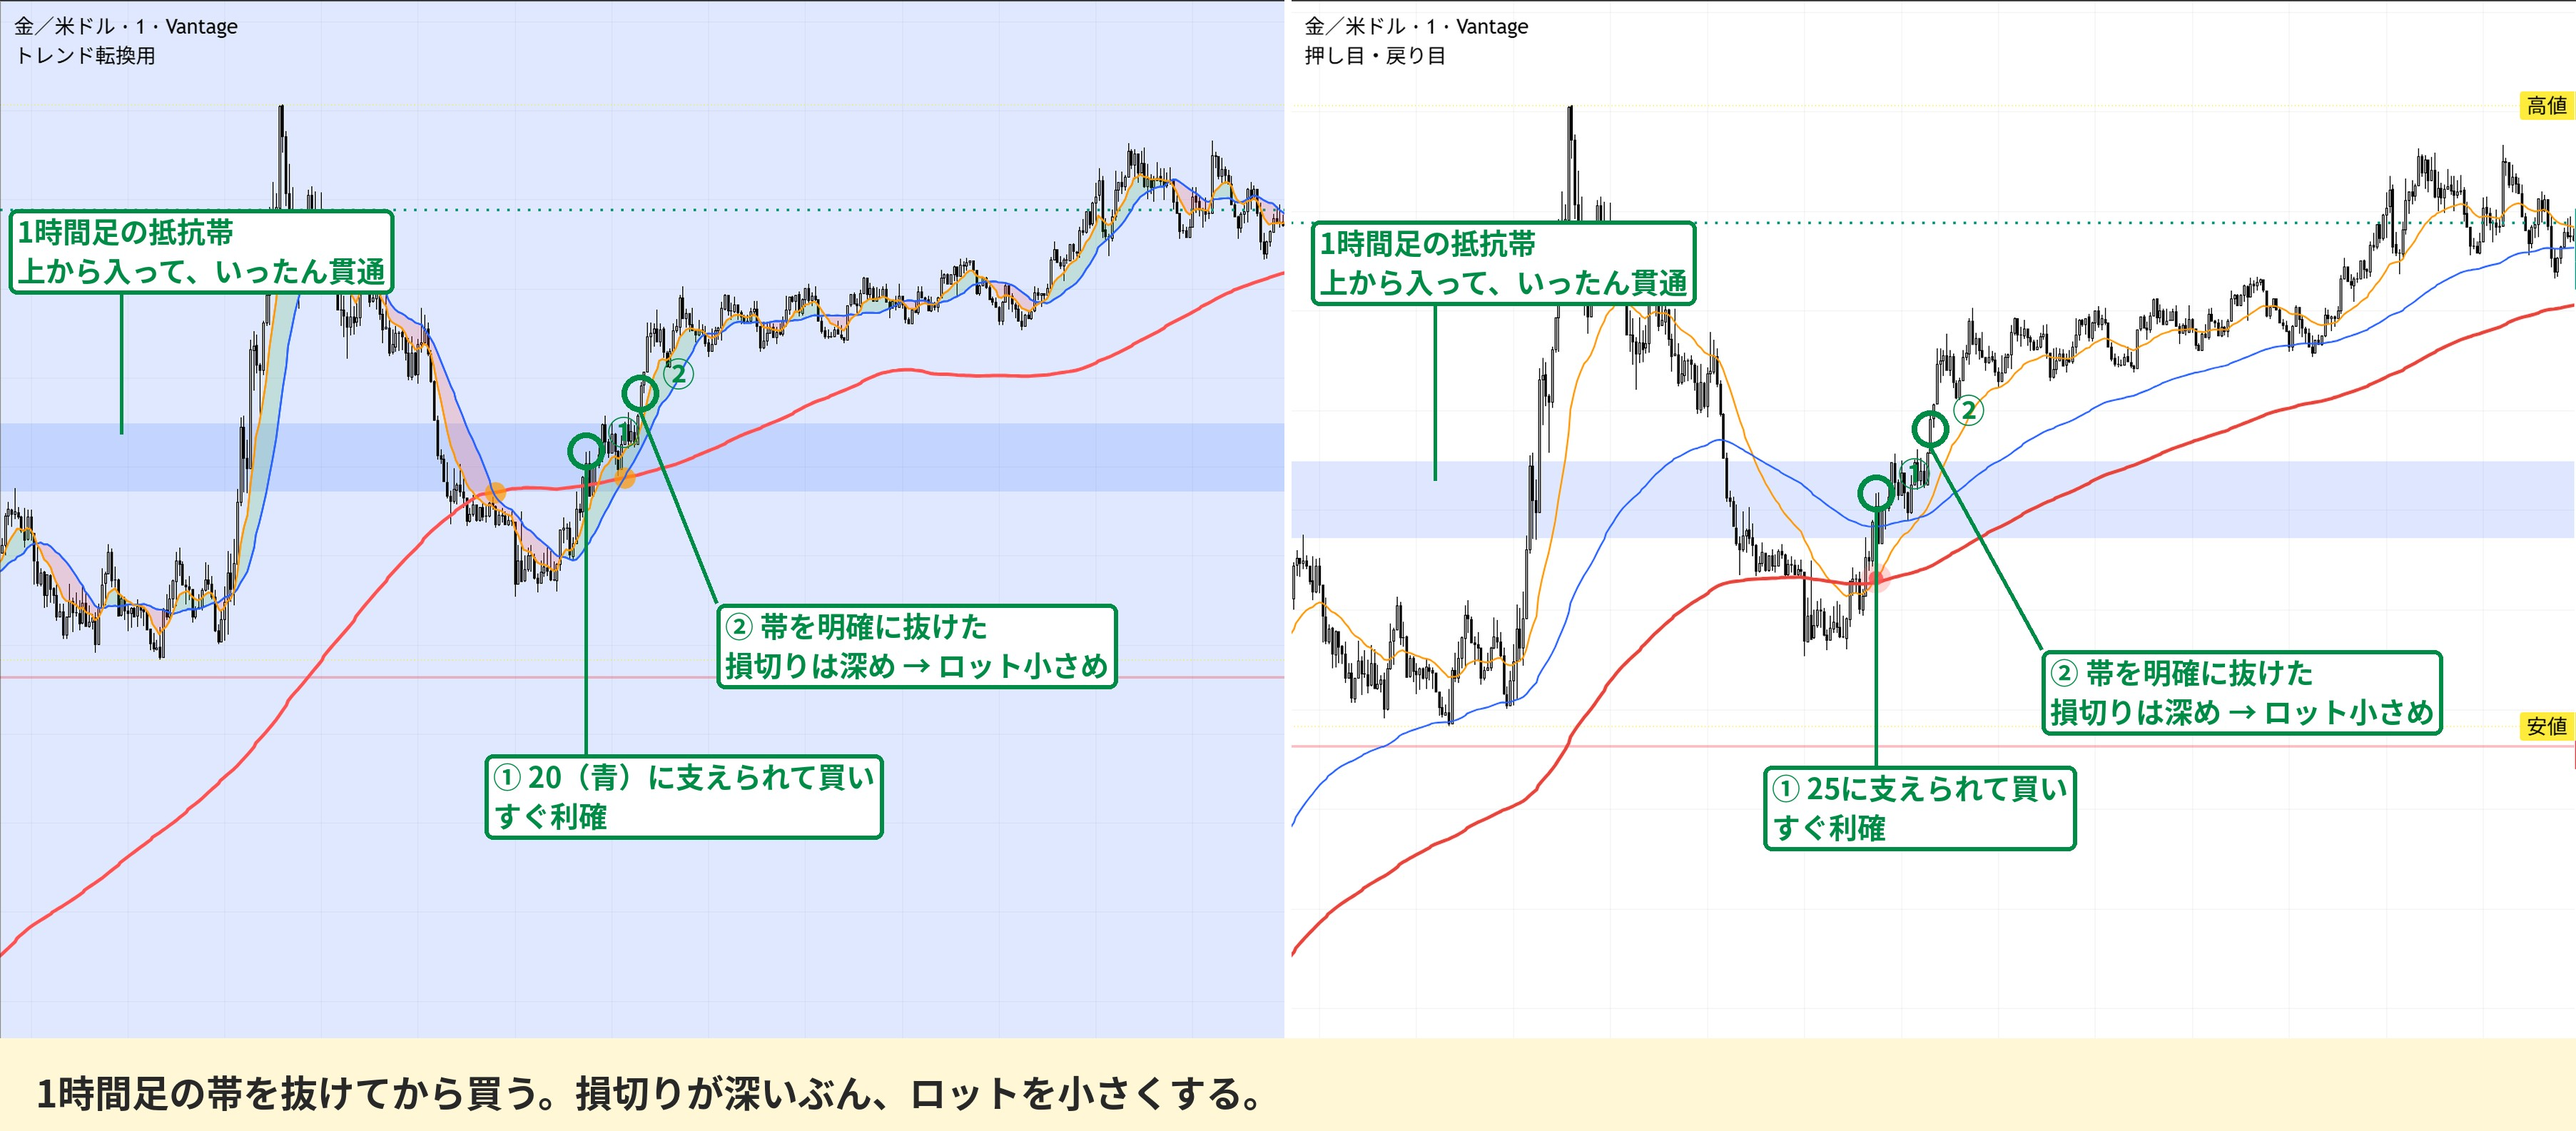
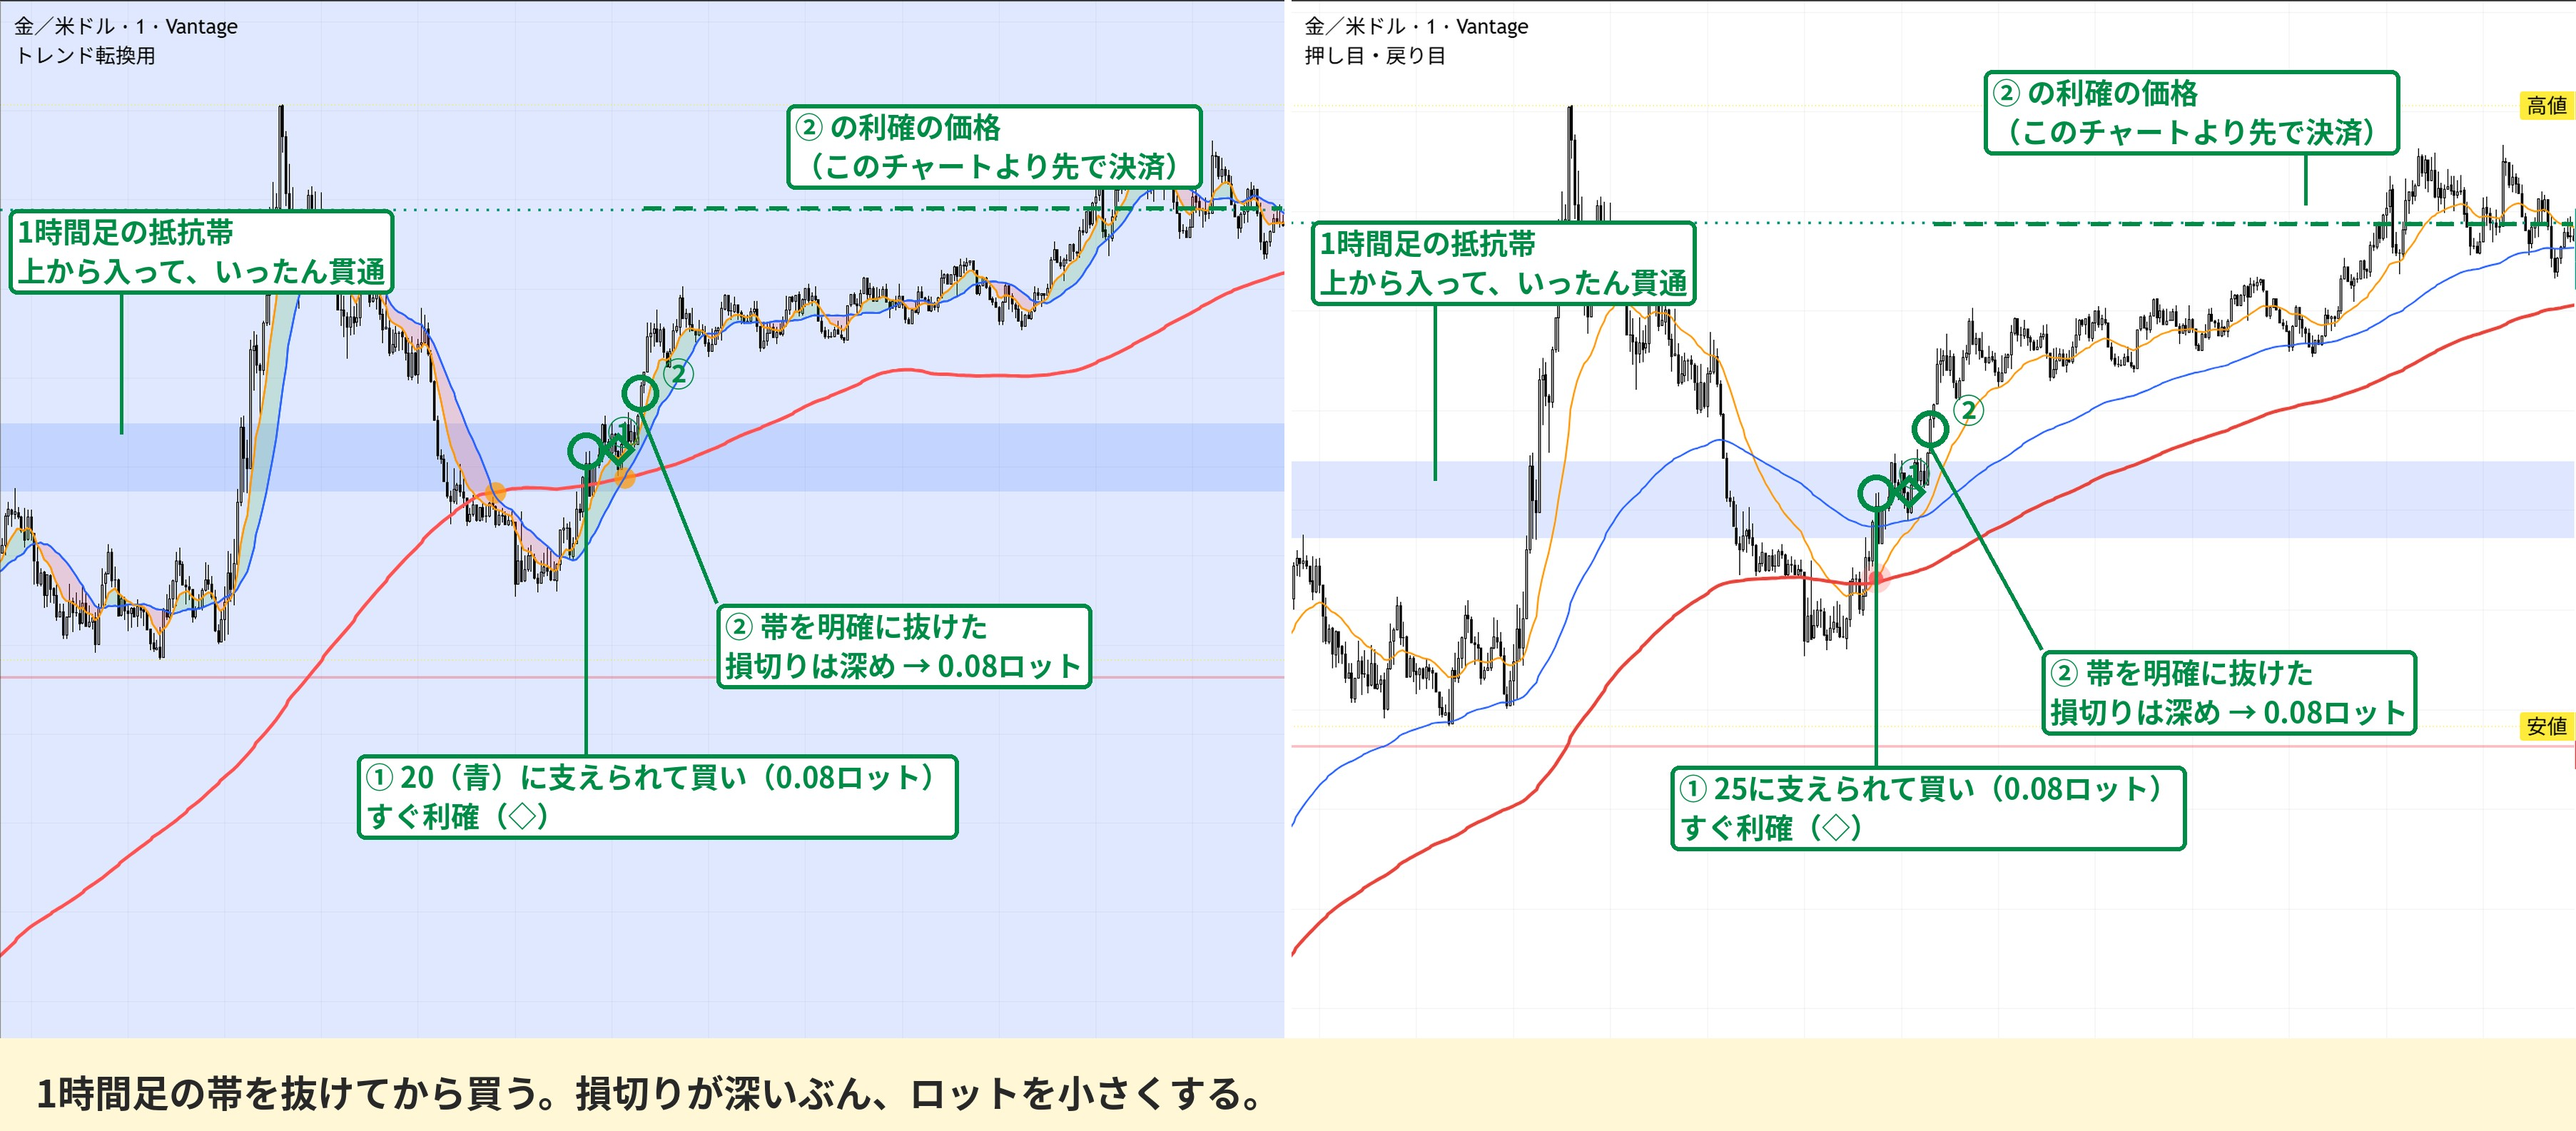
例30：ロットと利確の位置を図に追加
Claude-Session: https://claude.ai/code/session_01HxS9YaEfLR2yPnioVsHz63

diff --git a/reversal.html b/reversal.html
@@ -135,7 +135,7 @@ body.lb-open { overflow: hidden; }
     <figure class="pic wide">
       <a href="methods/rev-band.jpg"><img src="methods/rev-band.jpg" alt="1分足。1時間足の抵抗帯に上から入って、いったん貫通。反転して①で買い、すぐ利確。帯を明確に抜けたので、損切りを深めにして②でロング" loading="lazy"></a>
     </figure>
-    <p class="note">①と②は、11/23の実際の買い。②は損切りが深いので、ロットを小さく（0.08）した。</p>
+    <p class="note">①と②は、11/23の実際の買い（どちらも0.08ロット）。②は損切りが深いので、ロットを小さくした。</p>
   </section>
 
   <section class="card big" id="ex29">
